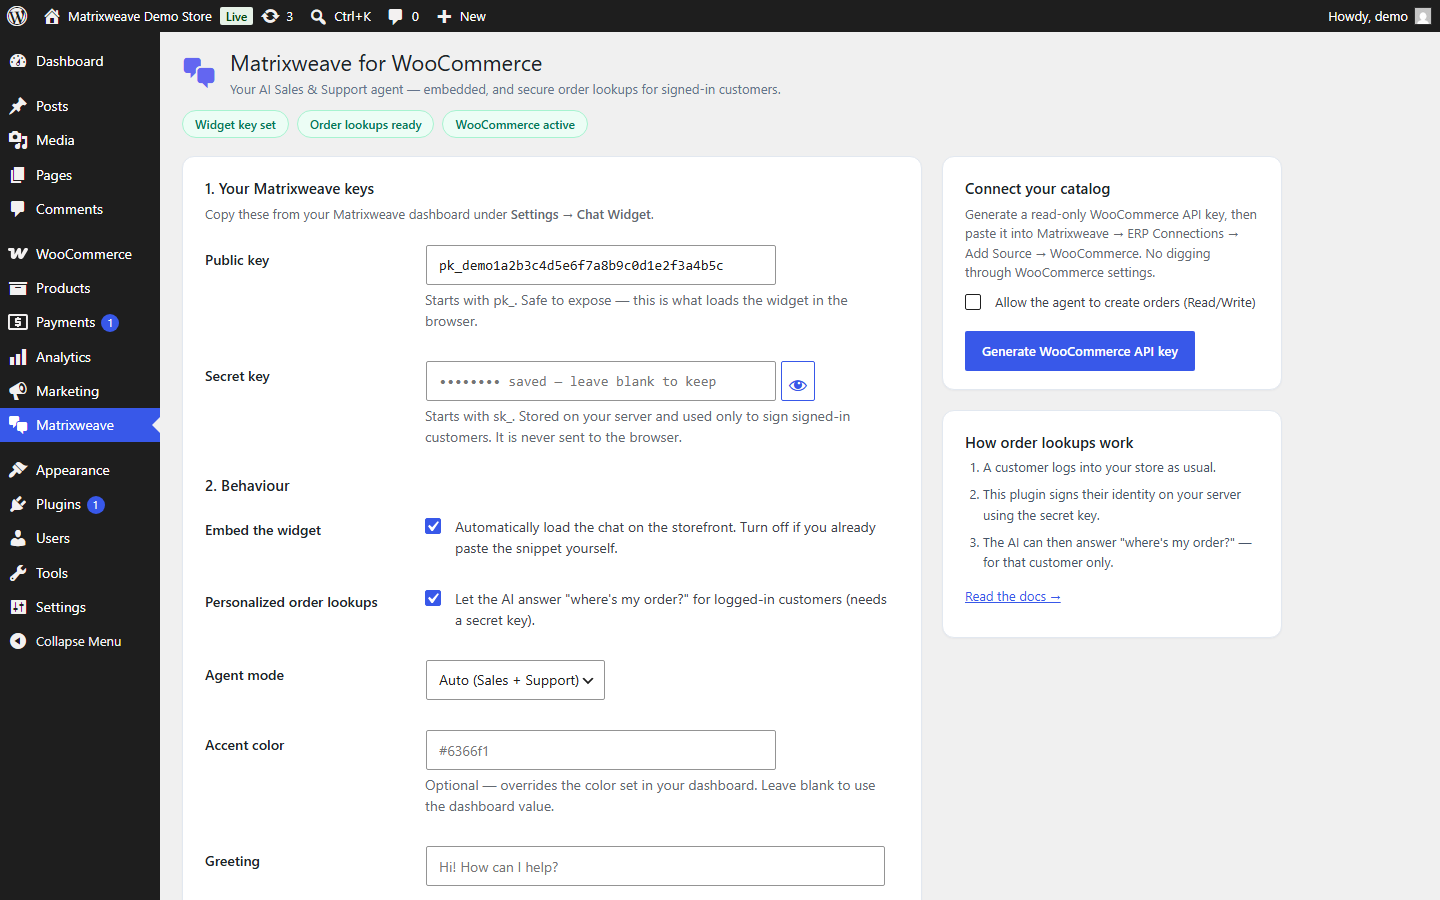
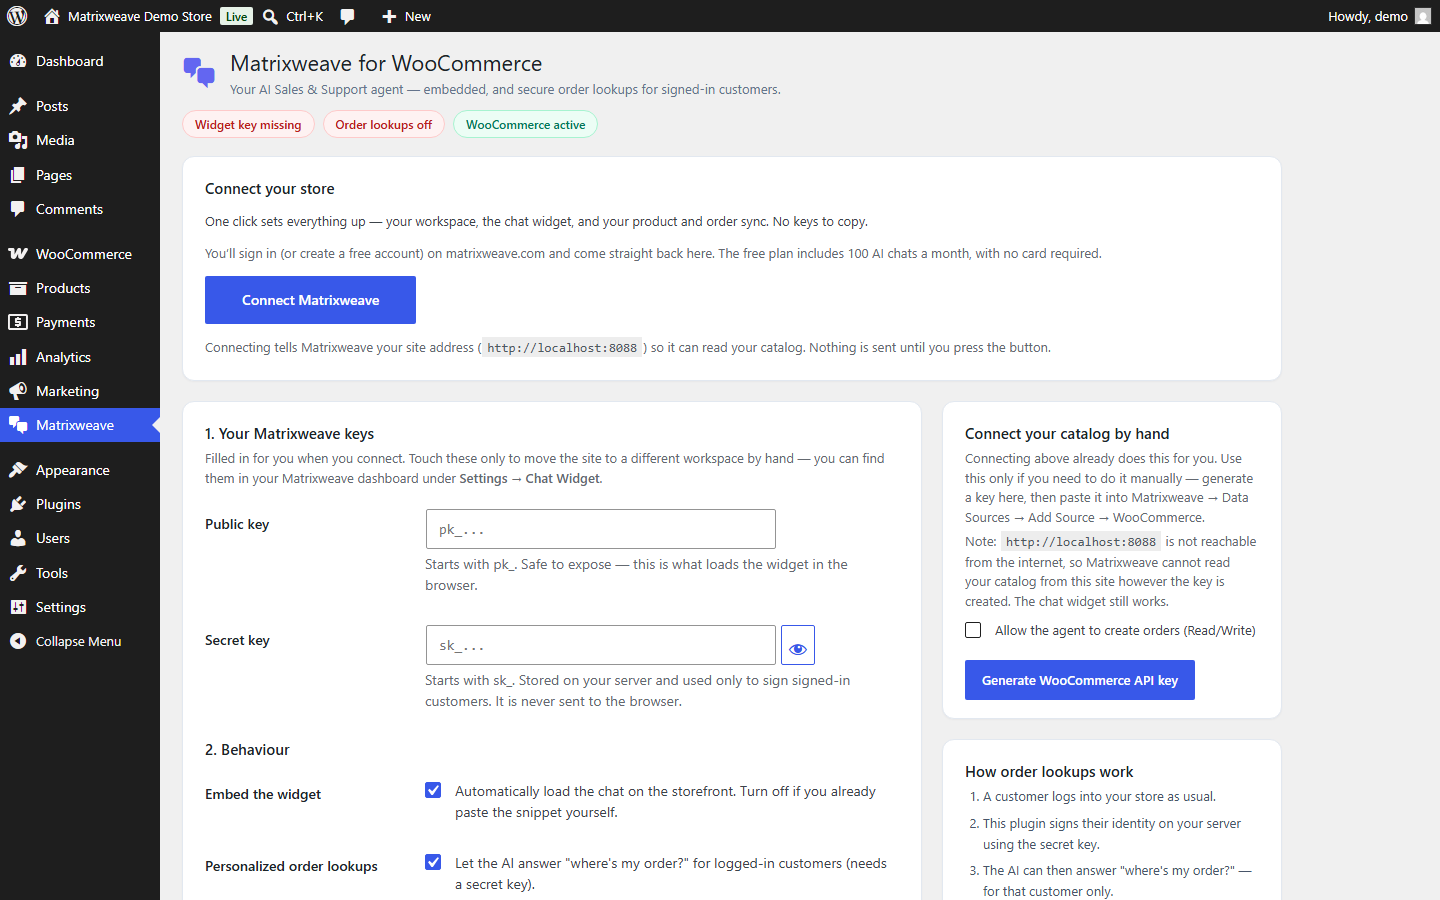
assets(wporg): reshoot the directory screenshots against the 1.2.0 UI
The listing was still showing 13 August: caption 1 described a Connect panel
over a picture of the old key-pasting screen, and only two of the three
promised screenshots existed as files at all.

Now five, reshot, in the order the setup actually goes — connect, confirm,
tune, fall back, use:

  1  fresh install, the one Connect Matrixweave button
  2  connected: plan, chats used, products synced, order lookups working
  3  the keys card and the by-hand path for hosts that block the round trip
  4  behaviour — embed, order lookups, agent mode, colour, greeting
  5  the agent open on the storefront

Captions rewritten to match the pixels, which is the failure being fixed.

Two pieces of tooling made this reproducible rather than hand-staged:

`docker/mu-demo-state.php` (container-only, never shipped) answers the two
status endpoints locally and seeds the stored keys, so the CONNECTED screens —
the ones worth showing in 1.2.0 — can be photographed without an account. It
fakes no markup: every pixel is still drawn by the plugin's own view from the
same fields the real API returns, so this is a real screen and not a mock-up.
It also silences the container's own housekeeping, because a stopped-and-
started stack accrues an Action Scheduler backlog and "3 past-due actions
found; something may be wrong" reads to a browsing merchant as the PLUGIN
reporting a fault. Numbers shown are representative and generic — no
customer's data goes into a public listing.
[…]

diff --git a/docker/mu-demo-state.php b/docker/mu-demo-state.php
@@ -1,0 +1,130 @@
+<?php
+/**
+ * LOCAL SCREENSHOT HELPER — never ships with the plugin.
+ *
+ * The screens worth photographing in 1.2.0 are the CONNECTED ones: the
+ * workspace panel with a plan, a real product count and a live order-lookup
+ * check. Those render from live API responses, which a throwaway container on
+ * localhost has no account to fetch.
+ *
+ * So this stubs the two status endpoints and seeds the stored keys. What it
+ * does NOT do is fake any markup: every pixel is still drawn by the plugin's
+ * own view, from the same fields the real API returns. Only the network hop is
+ * replaced, so a screenshot shows the real screen rather than a mock-up.
+ *
+ * Numbers are representative of a real mid-sized store and deliberately
+ * generic — no customer's data appears in a public directory listing.
+ *
+ *   ?demo_state=connected  → stored keys present  (workspace + status panels)
+ *   ?demo_state=fresh      → no keys              (the Connect call to action)
+ *
+ * Lives only in the throwaway Docker container's mu-plugins folder. Not in the
+ * plugin directory, not in the release zip, not in SVN.
+ */
+
+if ( ! defined( 'ABSPATH' ) ) {
+	exit;
+}
+
+add_action(
+	'init',
+	function () {
+		// phpcs:ignore WordPress.Security.NonceVerification.Recommended -- local screenshot helper.
+		if ( ! isset( $_GET['demo_state'] ) ) {
+			return;
+		}
+		// phpcs:ignore WordPress.Security.NonceVerification.Recommended -- local screenshot helper.
+		$state  = sanitize_text_field( wp_unslash( $_GET['demo_state'] ) );
+		$stored = get_option( 'matrixweave_settings', array() );
+		$stored = is_array( $stored ) ? $stored : array();
+
+		if ( 'connected' === $state ) {
+			// Shaped like a real key (pk_ + 32 hex) so the screenshot shows the
+			// field as a merchant sees it. Not a working key for any workspace.
+			$stored['public_key']   = 'pk_4c81b7e2a95d43f0b6ea27c1d8f350ab';
+			$stored['secret_key']   = 'sk_9f2d61ac0e784b35a7c40e6bd219753';
+			$stored['embed_widget'] = 'yes';
+			$stored['order_lookup'] = 'yes';
+		} else {
+			unset( $stored['public_key'], $stored['secret_key'] );
+		}
+
+		update_option( 'matrixweave_settings', $stored );
+		wp_safe_redirect( remove_query_arg( 'demo_state' ) );
+		exit;
+	},
+	5 // before the plugin reads its settings
+);
+
+/**
+ * Quieten the container's own housekeeping so it can't photobomb a listing.
+ *
+ * A throwaway stack that gets stopped and started accumulates WooCommerce
+ * Action Scheduler backlog and update badges — "3 past-due actions found;
+ * something may be wrong" reads, to anyone browsing the directory, as the
+ * PLUGIN reporting a fault. None of it belongs in a screenshot of our screen.
+ */
+add_action(
+	'admin_head',
+	function () {
+		remove_all_actions( 'admin_notices' );
+		remove_all_actions( 'all_admin_notices' );
+		echo '<style>.update-plugins,.awaiting-mod,.update-nag,#wp-admin-bar-updates{display:none!important}</style>';
+	},
+	1
+);
+
+/**
+ * Answer the plugin's status calls locally, with the exact field names the
+ * real endpoints return (see Matrixweave_API::erp_status / account_status).
+ */
+add_filter(
+	'pre_http_request',
+	function ( $preempt, $args, $url ) {
+		if ( false === strpos( (string) $url, 'matrixweave.com' ) ) {
+			return $preempt;
+		}
+
+		$body = null;
+
+		if ( false !== strpos( $url, '/widget/erp-status' ) ) {
+			$body = array(
+				'connected'      => true,
+				'platform'       => 'WOOCOMMERCE',
+				'storeUrl'       => home_url(),
+				'productCount'   => 4465,
+				'syncStatus'     => 'IDLE',
+				'syncError'      => null,
+				'lastSyncedAt'   => gmdate( 'c' ),
+				'ordersReadable' => true,
+			);
+		} elseif ( false !== strpos( $url, '/widget/account-status' ) ) {
+			$body = array(
+				'workspaceName'         => 'Northgate Supply Co.',
+				'plan'                  => 'Growth',
+				'conversationsUsed'     => 318,
+				'conversationsIncluded' => 2000,
+			);
+		} elseif ( false !== strpos( $url, '/widget/sign-identity' ) ) {
+			$body = array(
+				'email'     => 'customer@example.com',
+				'issuedAt'  => time(),
+				'signature' => str_repeat( 'a', 64 ),
+			);
+		}
+
+		if ( null === $body ) {
+			return $preempt;
+		}
+
+		return array(
+			'headers'  => array(),
+			'body'     => wp_json_encode( $body ),
+			'response' => array( 'code' => 200, 'message' => 'OK' ),
+			'cookies'  => array(),
+			'filename' => null,
+		);
+	},
+	10,
+	3
+);
